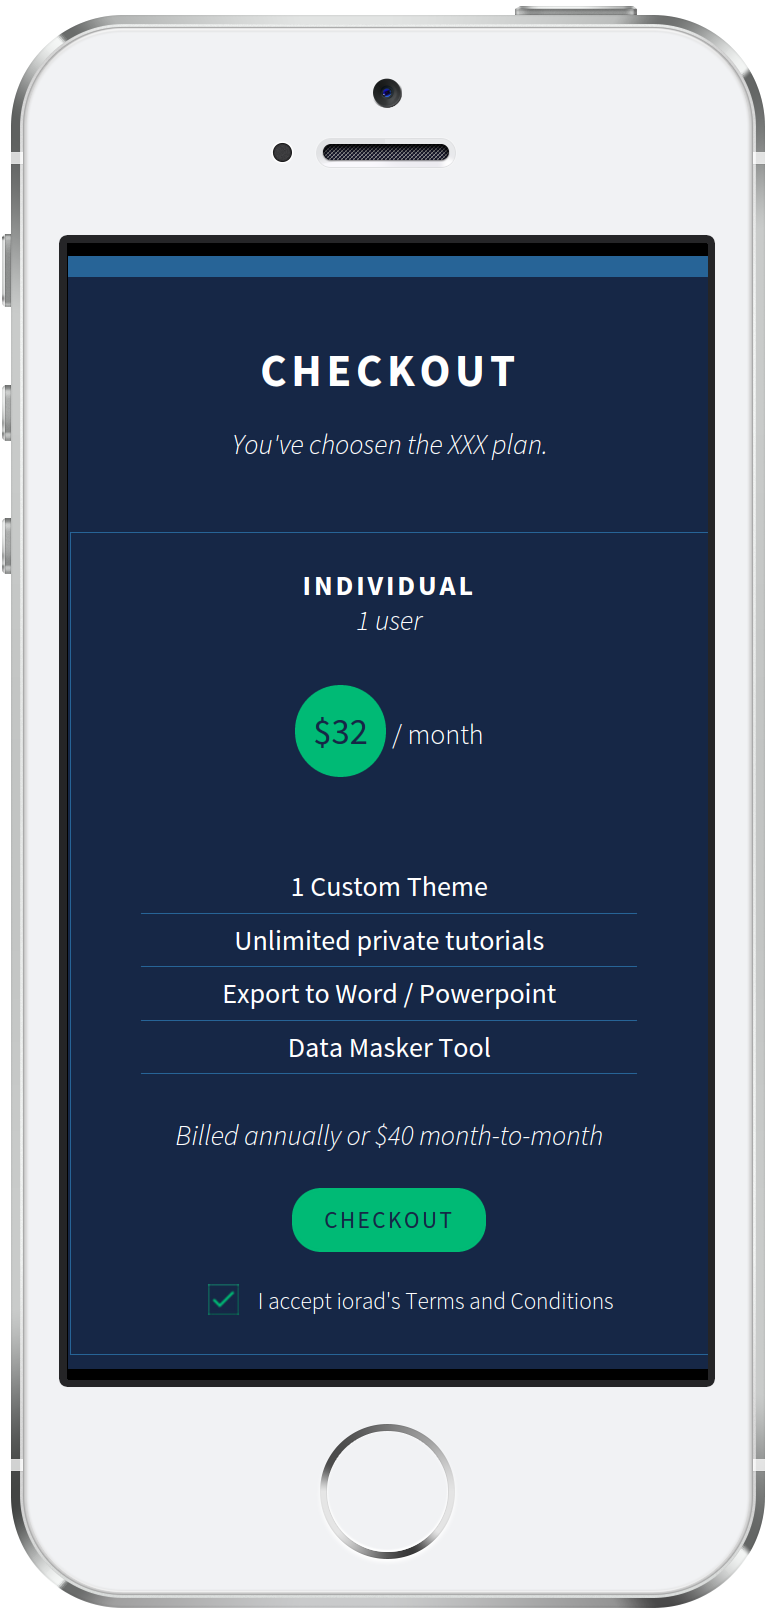
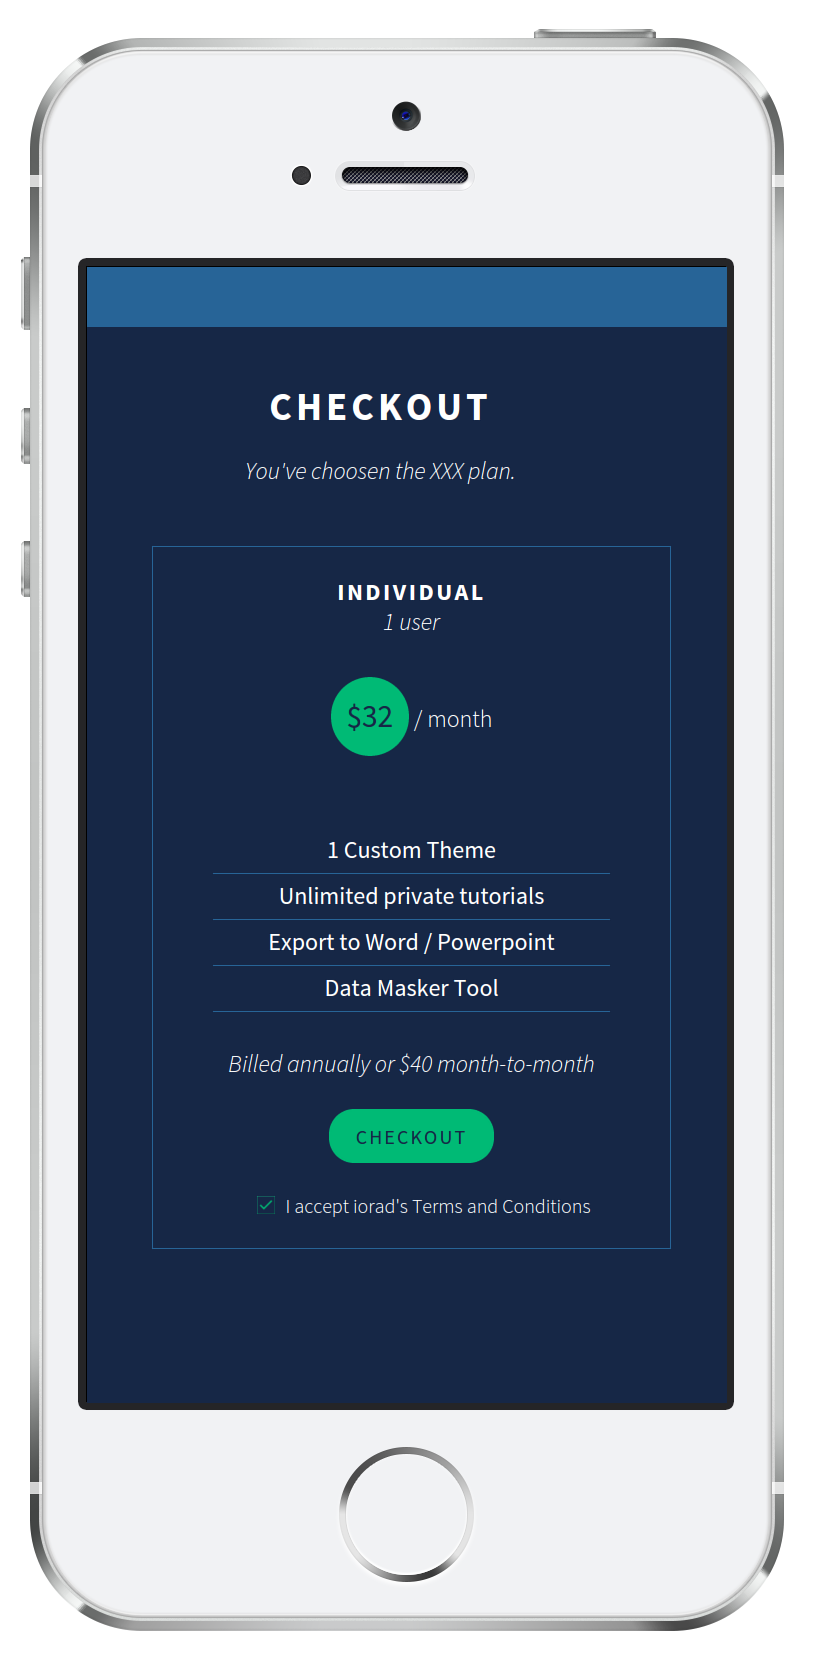
Iorad mobile images changed, uniformized

Changed region(s): [[0.0, 0.0, 1.0, 1.0], [0.2405, 0.3416, 0.7817, 0.7764], [0.5712, 0.9006, 0.6013, 0.9317]]

diff --git a/site/components/project/slider/slider.js b/site/components/project/slider/slider.js
@@ -5,7 +5,7 @@ var slider = function(slide, bullets) {
   var slideCount = slides.length;
   var pos = 0;
 
-  // - move out of viewport inactive slides
+  // - move out of viewport all inactive slides
   function setTransform() {
     for (var i = 0; i < slideCount; i++ ) {
       slides[i].style['transform'] = 'translateX(' + ((i + pos) * slides[0].offsetWidth) + 'px)';
@@ -31,6 +31,7 @@ var slider = function(slide, bullets) {
   // - click on a bullet
   function clickBullet(event) {
     active = this.classList.contains('active');
+
     if (!active) {
       moveSlide(this);
       removeActiveBulletClass();
@@ -42,8 +43,7 @@ var slider = function(slide, bullets) {
   function moveSlide(bullet) {
     current = bulletIndex(bullet);
     step = current - Math.abs(pos);
-    console.log('current: ' + current);
-    console.log('step: ' + step);
+
     if (Math.abs(pos) < current ) {
       previousSlide(step);
     } else {
@@ -74,17 +74,17 @@ var slider = function(slide, bullets) {
   }
 
   // Get previous slide
+  // - it moves prev with 'step' slides
   function previousSlide(step) {
     pos = Math.max(pos - step, -(slideCount - 1));
     setTransform();
-    console.log('pos: ' + pos);
   }
 
   // Get next slide
+  // - it moves next with 'step' slides
   function nextSlide(step) {
     pos = Math.min(pos + step, 0);
     setTransform();
-    console.log('pos:' + pos);
   }
 }
 
